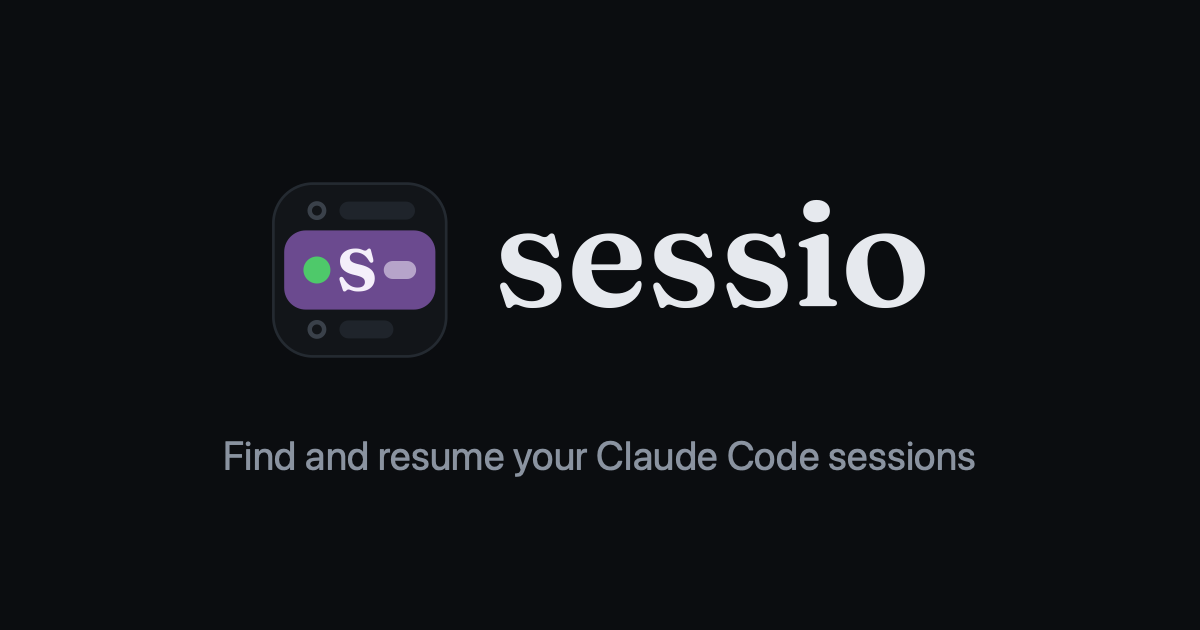
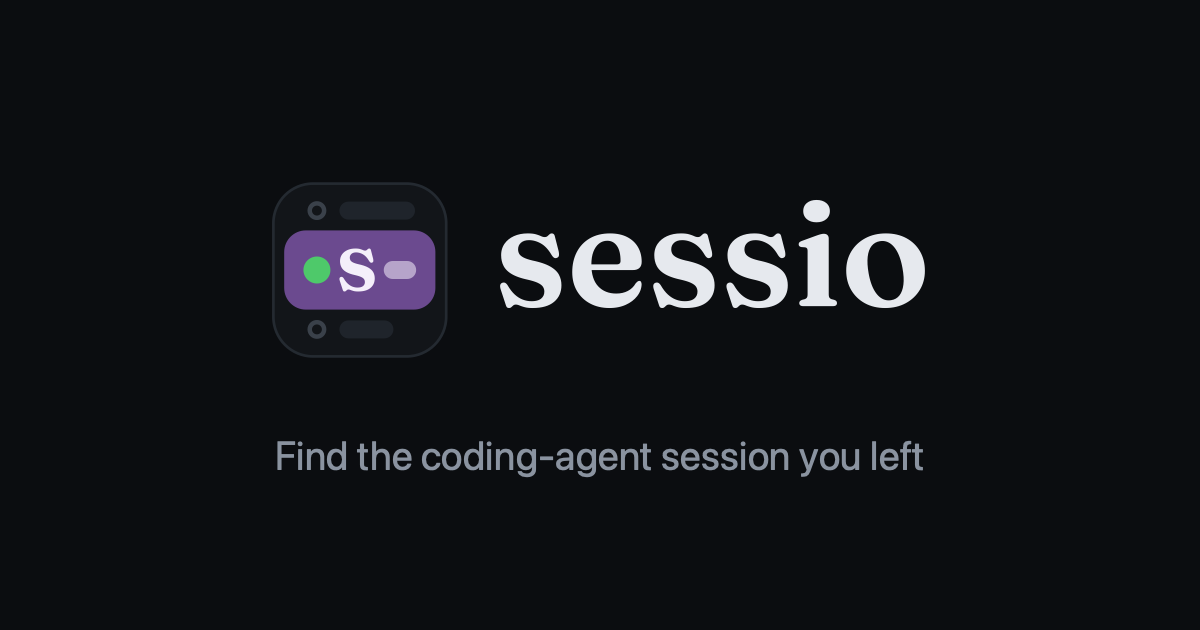
docs: sessio is for coding agents, not only Claude Code; demo marks drawn in Fira Code
- "Find the coding-agent session you left, and pick it back up" across the README, site, social
  card, package and crate descriptions, CLI help and the agent skill; Claude-only facts (the
  transcript format, reply) keep saying Claude Code.
- Requirements: Claude Code or GitHub Copilot CLI.
- The demo screen is set in Fira Code, which has every status mark at one size and height; the
  system monospace borrowed them from fallback fonts, so ○▶ and ●▶ sat at different heights.

Changed region(s): [[0.185, 0.6937, 0.8325, 0.754]]

diff --git a/docs/index.html b/docs/index.html
@@ -3,10 +3,10 @@
 <head>
 <meta charset="utf-8">
 <meta name="viewport" content="width=device-width, initial-scale=1">
-<title>sessio — find and continue your Claude Code sessions</title>
-<meta name="description" content="Find the Claude Code session you left, see where it stopped, and pick it back up in the right folder. A terminal dashboard plus a CLI with --json for scripts and agents.">
+<title>sessio — find and continue your coding-agent sessions</title>
+<meta name="description" content="Find the Claude Code or Copilot CLI session you left, see where it stopped, and pick it back up in the right folder. A terminal dashboard plus a CLI with --json for scripts and agents.">
 <meta property="og:title" content="sessio">
-<meta property="og:description" content="Find the Claude Code session you left, see where it stopped, and pick it back up.">
+<meta property="og:description" content="Find the coding-agent session you left, see where it stopped, and pick it back up.">
 <meta property="og:type" content="website">
 <meta property="og:image" content="https://theanhgen.github.io/sessio/brand/social.png">
 <meta property="og:image:width" content="1200">
@@ -17,7 +17,7 @@
 <link rel="apple-touch-icon" href="brand/icon-180.png">
 <link rel="preconnect" href="https://fonts.googleapis.com">
 <link rel="preconnect" href="https://fonts.gstatic.com" crossorigin>
-<link rel="stylesheet" href="https://fonts.googleapis.com/css2?family=Fraunces:opsz,wght@9..144,600&amp;display=swap">
+<link rel="stylesheet" href="https://fonts.googleapis.com/css2?family=Fraunces:opsz,wght@9..144,600&amp;family=Fira+Code:wght@400;700&amp;display=swap">
 <style>
   /* Colour roles: the same names src/theme.rs uses, defined in docs/DESIGN.md with their contrast
      ratios. Everything coloured on this page is carrying a role, not decorating. */
@@ -116,7 +116,10 @@
   .term-bar .state{font-family:var(--mono);font-size:12.5px;color:var(--dim)}
   .term.active .term-bar .state{color:var(--running)}
   .term-bar .btn{margin-left:auto;padding:6px 12px;font-size:13.5px}
-  #screen{margin:0;padding:12px 14px;font-family:var(--mono);font-size:12.5px;line-height:1.45;
+  /* Fira Code draws every status mark (◆ ◉ ● ○ ▶ ⌂) itself, one size, centred on the lowercase
+     letters, as a terminal font does; the system monospace has none of them, and the fallbacks it
+     borrows them from disagree on size and height. Ligatures off: a terminal has none. */
+  #screen{margin:0;padding:12px 14px;font-family:"Fira Code",var(--mono);font-variant-ligatures:none;font-feature-settings:"liga" 0,"calt" 0;font-size:12.5px;line-height:1.45;
     overflow-x:auto;color:var(--text);background:var(--surface-raised);white-space:pre;min-height:22em;
     border-radius:0 0 var(--radius) var(--radius)}
   /* Every non-ASCII glyph comes boxed to its terminal cells (demo::render): the fallback fonts
@@ -203,8 +206,8 @@
 
   <main id="top">
   <header>
-    <p class="kicker">sessio · for Claude Code</p>
-    <h1>Find the Claude Code session you left, and <span class="u">pick it back up</span>.</h1>
+    <p class="kicker">sessio · for Claude Code and Copilot CLI</p>
+    <h1>Find the coding-agent session you left, and <span class="u">pick it back up</span>.</h1>
     <p class="tagline">A terminal dashboard of every session on your machine: what each one was, where it stopped, whether it is waiting on you — and one key to resume it in the folder it ran in.</p>
 
     <div class="install" id="install">
@@ -387,7 +390,7 @@ The demo needs JavaScript. Everything else on this page does not.</noscript></pr
     <div class="two">
       <div>
         <ul class="plain">
-          <li><b>Claude Code</b>, with the <code>claude</code> binary on your PATH — it is what sessio resumes.</li>
+          <li><b>Claude Code or GitHub Copilot CLI</b>, with <code>claude</code> or <code>copilot</code> on your PATH — it is what sessio resumes.</li>
           <li><b>macOS or Linux.</b></li>
           <li><b>Node.js ≥ 16</b>, only to install from npm. sessio is a native binary; <code>cargo install</code> needs no Node at all.</li>
         </ul>

diff --git a/scripts/brand.swift b/scripts/brand.swift
@@ -195,7 +195,7 @@ try png("social.png", 1200, 630) { cx in
     cx.setFillColor(color("#e6e9ee"))
     var t = CGAffineTransform(translationX: x0 + iconSize + gapW, y: midY + bigXh / 2)
     cx.addPath(big.path.copy(using: &t)!); cx.fillPath()
-    let tag = NSAttributedString(string: "Find and resume your Claude Code sessions", attributes: [
+    let tag = NSAttributedString(string: "Find the coding-agent session you left", attributes: [
         .font: NSFont.systemFont(ofSize: 40, weight: .regular), .foregroundColor: NSColor(cgColor: color("#8a93a0"))!,
     ])
     let line = CTLineCreateWithAttributedString(tag)

diff --git a/src/cli.rs b/src/cli.rs
@@ -26,7 +26,7 @@ const PROJECT_MAX: usize = 20;
 
 pub fn usage() -> String {
     format!(
-        "sessio {} — find and resume past Claude Code sessions.
+        "sessio {} — find and resume past Claude Code and Copilot CLI sessions.
 GitHub Copilot CLI sessions (~/.copilot) are listed too, tagged `copilot`.
 
 USAGE:

diff --git a/src/main.rs b/src/main.rs
@@ -1,4 +1,4 @@
-//! sessio — find and resume past Claude Code (and GitHub Copilot CLI) sessions.
+//! sessio — find and resume past coding-agent sessions (Claude Code, GitHub Copilot CLI).
 
 mod cli;
 

diff --git a/README.md b/README.md
@@ -7,11 +7,11 @@
 
 # sessio
 
-**Find and resume your past [Claude Code](https://claude.com/claude-code) sessions from the terminal.**
+**Find the coding-agent session you left, and pick it back up — [Claude Code](https://claude.com/claude-code) and [GitHub Copilot CLI](https://github.com/features/copilot/cli), from the terminal.**
 
 🌐 **[Website](https://theanhgen.github.io/sessio/)** · 📦 **[npm](https://www.npmjs.com/package/sessio)**
 
-`sessio` is a fast, self-contained TUI that reads your local Claude Code transcripts and lets you jump back into any past session — the right one, in the right directory — without hunting through `claude --resume` output. A project panel, browser-style session tabs, type-to-filter, full-text search, live refresh, a preview of where each session left off — and a reply key that answers a session without opening it. Every one of those is also a plain command (`sessions ls`, `find`, `show`, `resume`, `reply`, `archive`, `kill`) with `--json` for scripts and agents, and an [agent skill](#agent-skill) ships with it.
+`sessio` is a fast, self-contained TUI that reads your local Claude Code and Copilot CLI transcripts and lets you jump back into any past session — the right one, in the right directory — without hunting through `claude --resume` output. A project panel, browser-style session tabs, type-to-filter, full-text search, live refresh, a preview of where each session left off — and a reply key that answers a session without opening it. Every one of those is also a plain command (`sessions ls`, `find`, `show`, `resume`, `reply`, `archive`, `kill`) with `--json` for scripts and agents, and an [agent skill](#agent-skill) ships with it.
 
 > The command you type is `sessions`. The npm package is named `sessio` (Latin for "a sitting / session") because `sessions` was taken.
 
@@ -165,7 +165,7 @@ to run rather than changing the checkout itself.
 
 - **Node.js ≥ 16** — only to install from npm. sessio itself is a native binary with no runtime
   dependencies; `cargo install` and the prebuilt archives don't need node at all.
-- **Claude Code** installed, with a `claude` binary on your PATH (used to resume)
+- **Claude Code** or **GitHub Copilot CLI**, with `claude` or `copilot` on your PATH (used to resume)
 - **ripgrep** (optional) for `^f` full-text search
 - **terminal-notifier** (optional, macOS) so a click on a waiting notification opens that session's window
 - macOS or Linux

diff --git a/docs/DESIGN.md b/docs/DESIGN.md
@@ -372,7 +372,8 @@ keys, requirements. The demo is entered with **Try the demo** (or by tabbing to 
 `esc`, **Exit demo** or `Tab`; while it has focus it wears an accent ring and says `keys go to the
 demo`. It lays the frame out for its container — 104x26 on a desktop, down to 60x18 — and never
 shrinks the text below 12px; narrower than 60 columns it scrolls sideways inside its window, never
-the page. If the wasm fails to load, the screen says so and the rest of the page is unaffected. Every non-ASCII glyph
+the page. If the wasm fails to load, the screen says so and the rest of the page is unaffected. The demo's screen is set in Fira Code, which draws every status mark itself at one size and
+height (the system monospace has none of them); ligatures are off. Every non-ASCII glyph
 the demo draws is boxed to its terminal cells (`1ch` or `2ch`), because the fallback font that
 draws it has its own width and would push the columns after it. The header (logo and section
 links) stays at the top while the page scrolls; on a phone its links scroll sideways in one row.

diff --git a/skills/sessio/SKILL.md b/skills/sessio/SKILL.md
@@ -1,6 +1,6 @@
 ---
 name: sessio
-description: Find, inspect, resume and reply to past Claude Code sessions with the `sessions` CLI. Use when the user asks what they were working on, wants an earlier session back ("the one where we fixed the login bug", "what did I do in this repo yesterday"), asks what is unfinished or which sessions are waiting on them, needs a session's id or resume command, or wants to send a message to another session without opening it.
+description: Find, inspect and resume past Claude Code and GitHub Copilot CLI sessions, and reply to Claude Code ones, with the `sessions` CLI. Use when the user asks what they were working on, wants an earlier session back ("the one where we fixed the login bug", "what did I do in this repo yesterday"), asks what is unfinished or which sessions are waiting on them, needs a session's id or resume command, or wants to send a message to another session without opening it.
 ---
 
 # sessio
